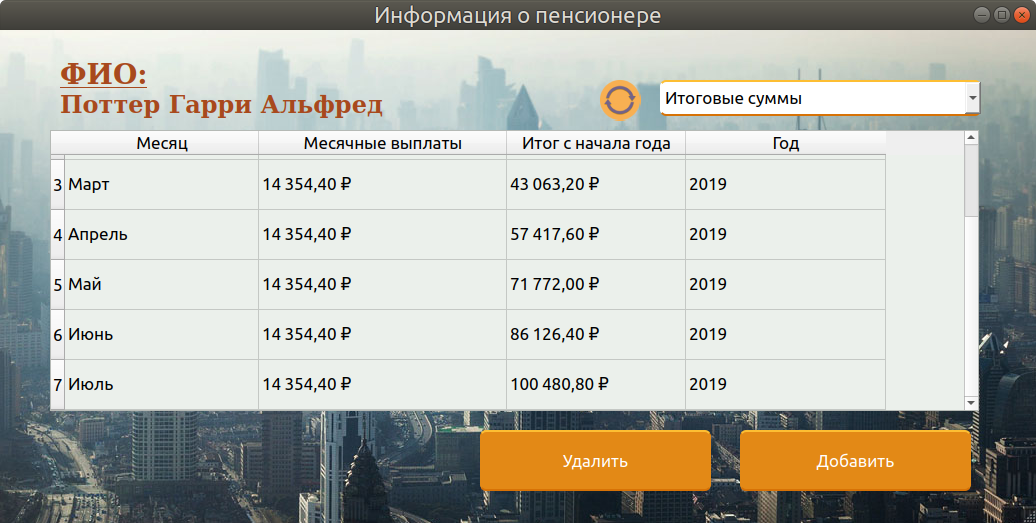
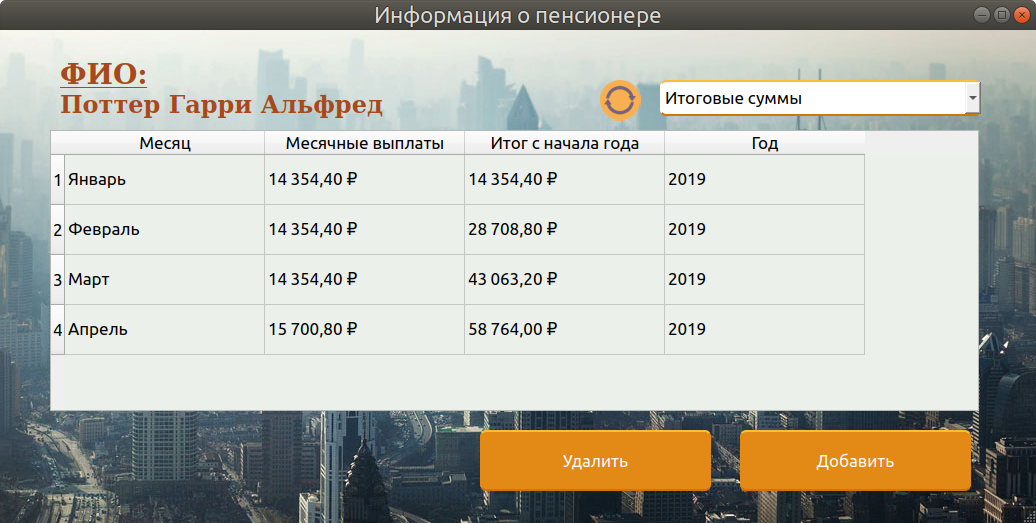
добавлен скрин

diff --git a/README.md b/README.md
@@ -2,11 +2,38 @@
 
 Приложение "Пенсионный фонд"
 
-Почувствуйте себя работником пенсионного фонда или пенсионером (по своему усмотрению) - **не реализовано**
+Почувствуйте себя работником пенсионного фонда или пенсионером (по своему усмотрению) 
 
-![Иллюстрация к проекту](https://github.com/elizarpif/bd_coursework/blob/master/assets/scrinshotes/main.png)
+**Работник ПФ**
+
+Для начала, ввести логин и пароль
+![Иллюстрация к проекту](https://github.com/elizarpif/bd_coursework/blob/master/assets/scrinshotes/login.png)
+
+Затем вбить в поиск СНИЛС клиента(пенсионера)
+![Иллюстрация к проекту](https://github.com/elizarpif/bd_coursework/blob/master/assets/scrinshotes/search1.png)
+
+Посмотреть личную информацию пенсионера, изменить данные
+![Иллюстрация к проекту](https://github.com/elizarpif/bd_coursework/blob/master/assets/scrinshotes/moder_retiree.png)
+
+Добавить/удалить место работы
+![Иллюстрация к проекту](https://github.com/elizarpif/bd_coursework/blob/master/assets/scrinshotes/moder_place.png)
+
+Добавить расчет для следующего месяца / удалить последний расчет
+![Иллюстрация к проекту](https://github.com/elizarpif/bd_coursework/blob/master/assets/scrinshotes/moder_summas.png)
+
+Добавить пенсию / удалить пенсию
+![Иллюстрация к проекту](https://github.com/elizarpif/bd_coursework/blob/master/assets/scrinshotes/moder_pensions.png)
+
+**Пенсионер**
+
+В случае, если нет логина и пароля, можно посмотреть информацию о пенсионере по СНИЛСу.
 
 
-![Иллюстрация к проекту](https://github.com/elizarpif/bd_coursework/blob/master/assets/scrinshotes/search.png)
+Посмотреть личную информацию 
+![Иллюстрация к проекту](https://github.com/elizarpif/bd_coursework/blob/master/assets/scrinshotes/info.png)
 
-![Иллюстрация к проекту](https://github.com/elizarpif/bd_coursework/blob/master/assets/scrinshotes/retiree.png)
+Посмотреть опыт работы
+![Иллюстрация к проекту](https://github.com/elizarpif/bd_coursework/blob/master/assets/scrinshotes/place.png)
+
+Посмотреть итоговые суммы
+![Иллюстрация к проекту](https://github.com/elizarpif/bd_coursework/blob/master/assets/scrinshotes/summas.png)
